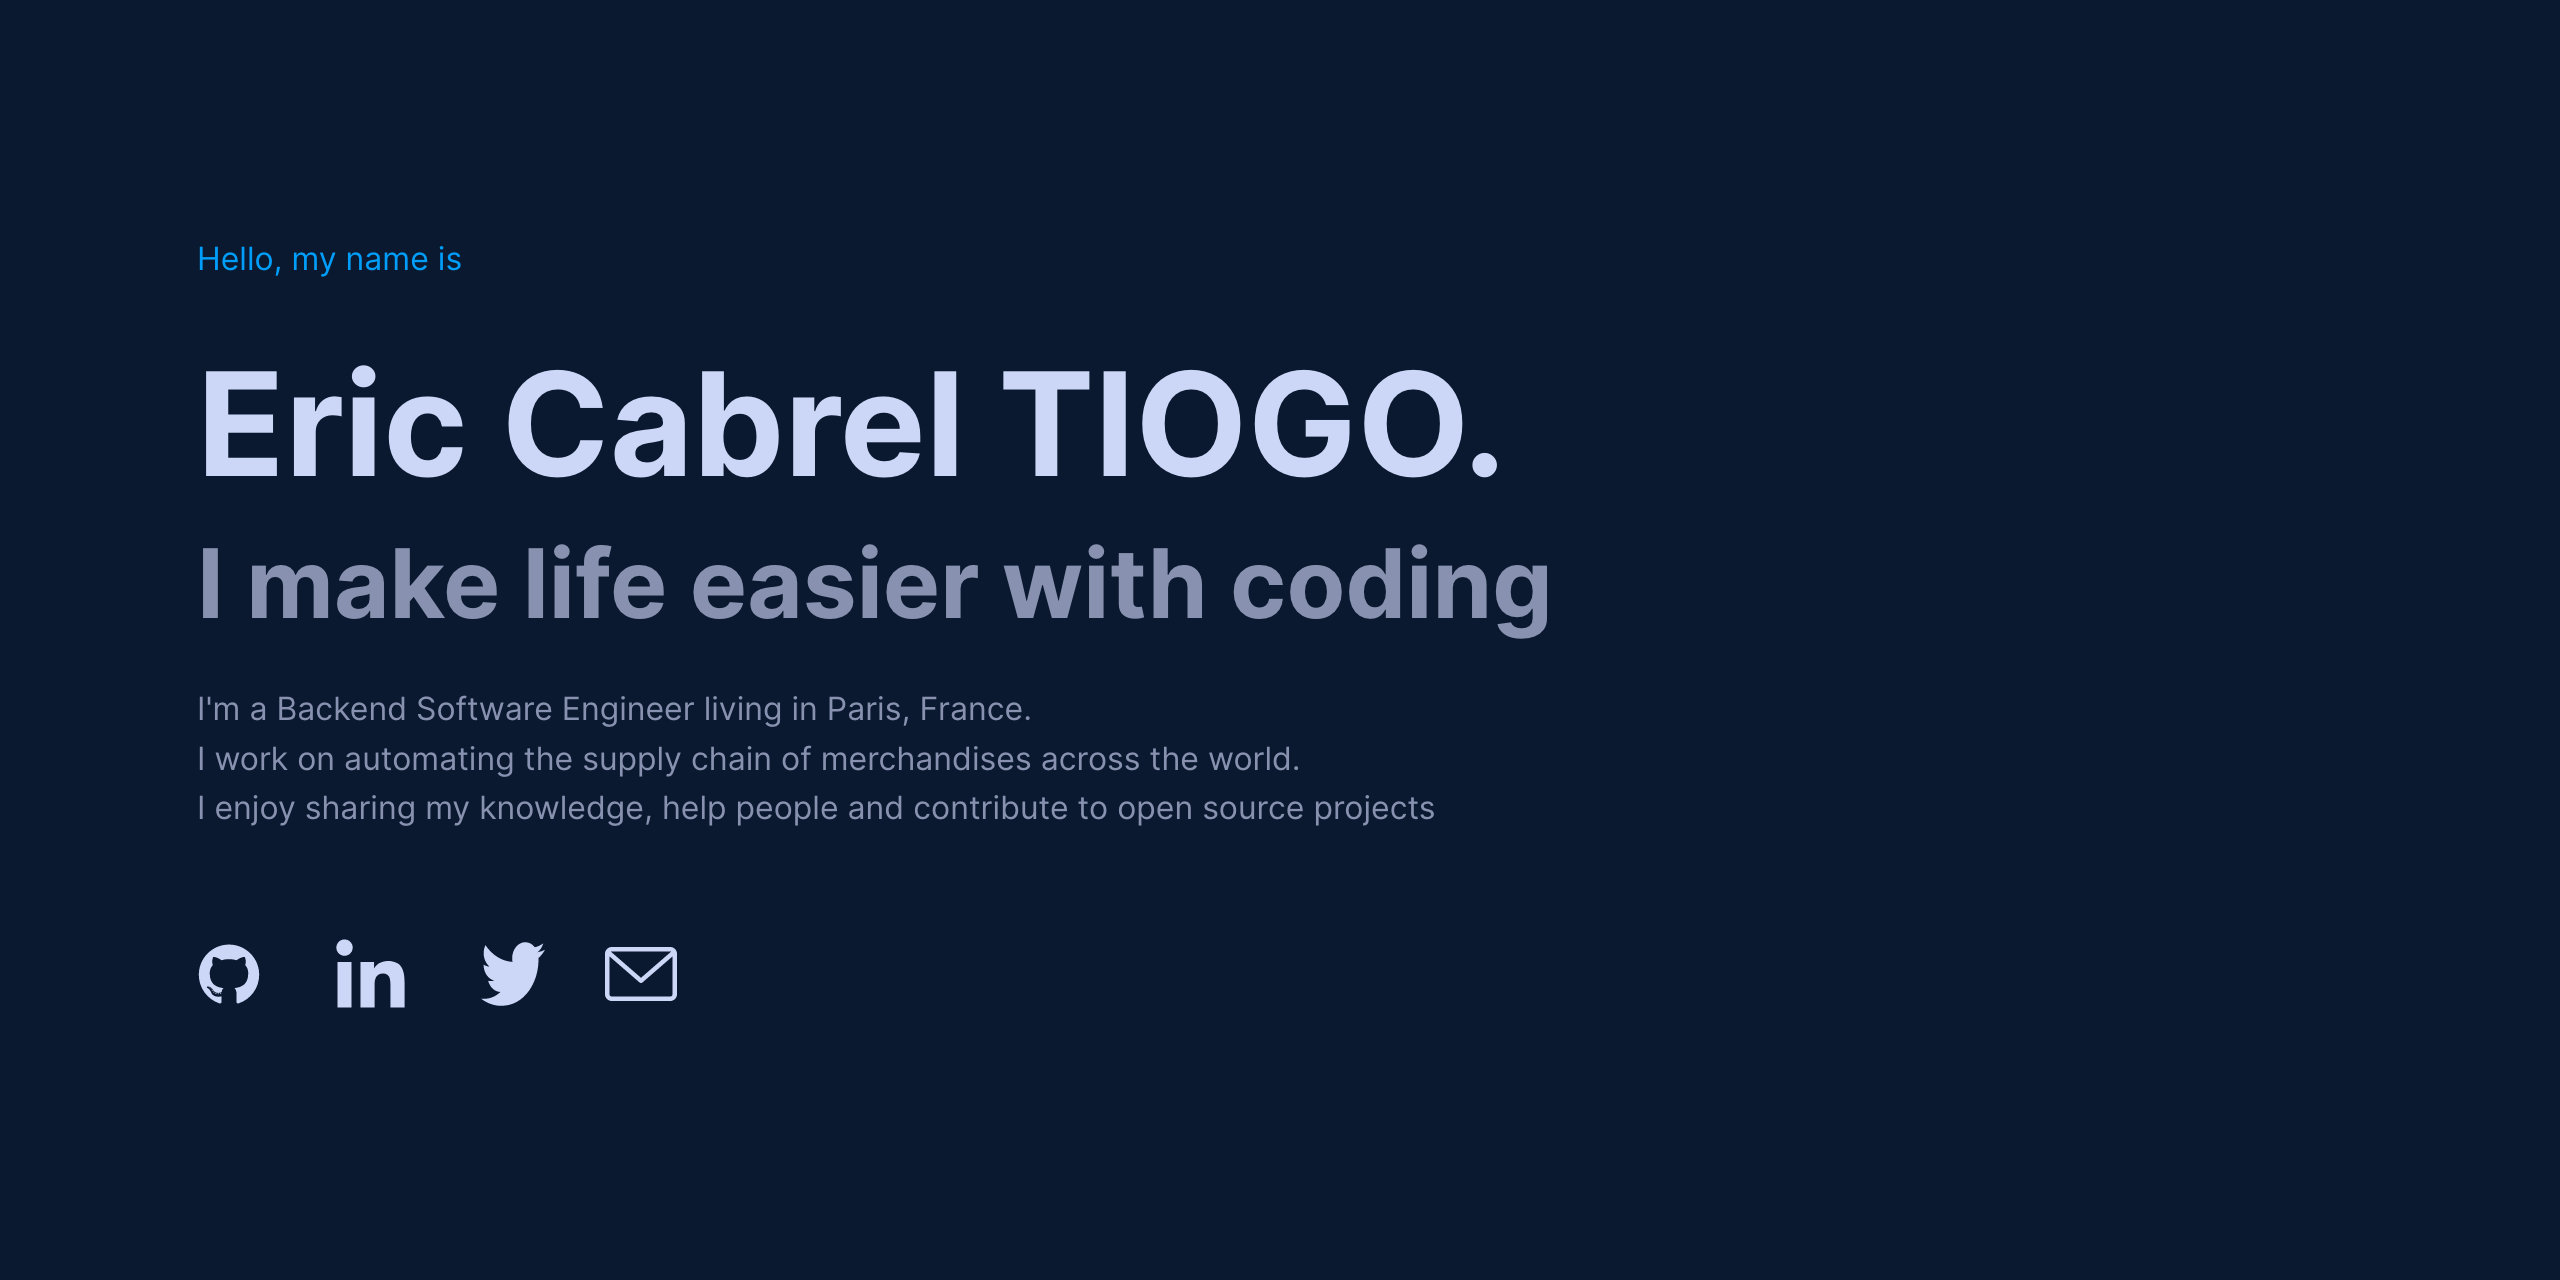
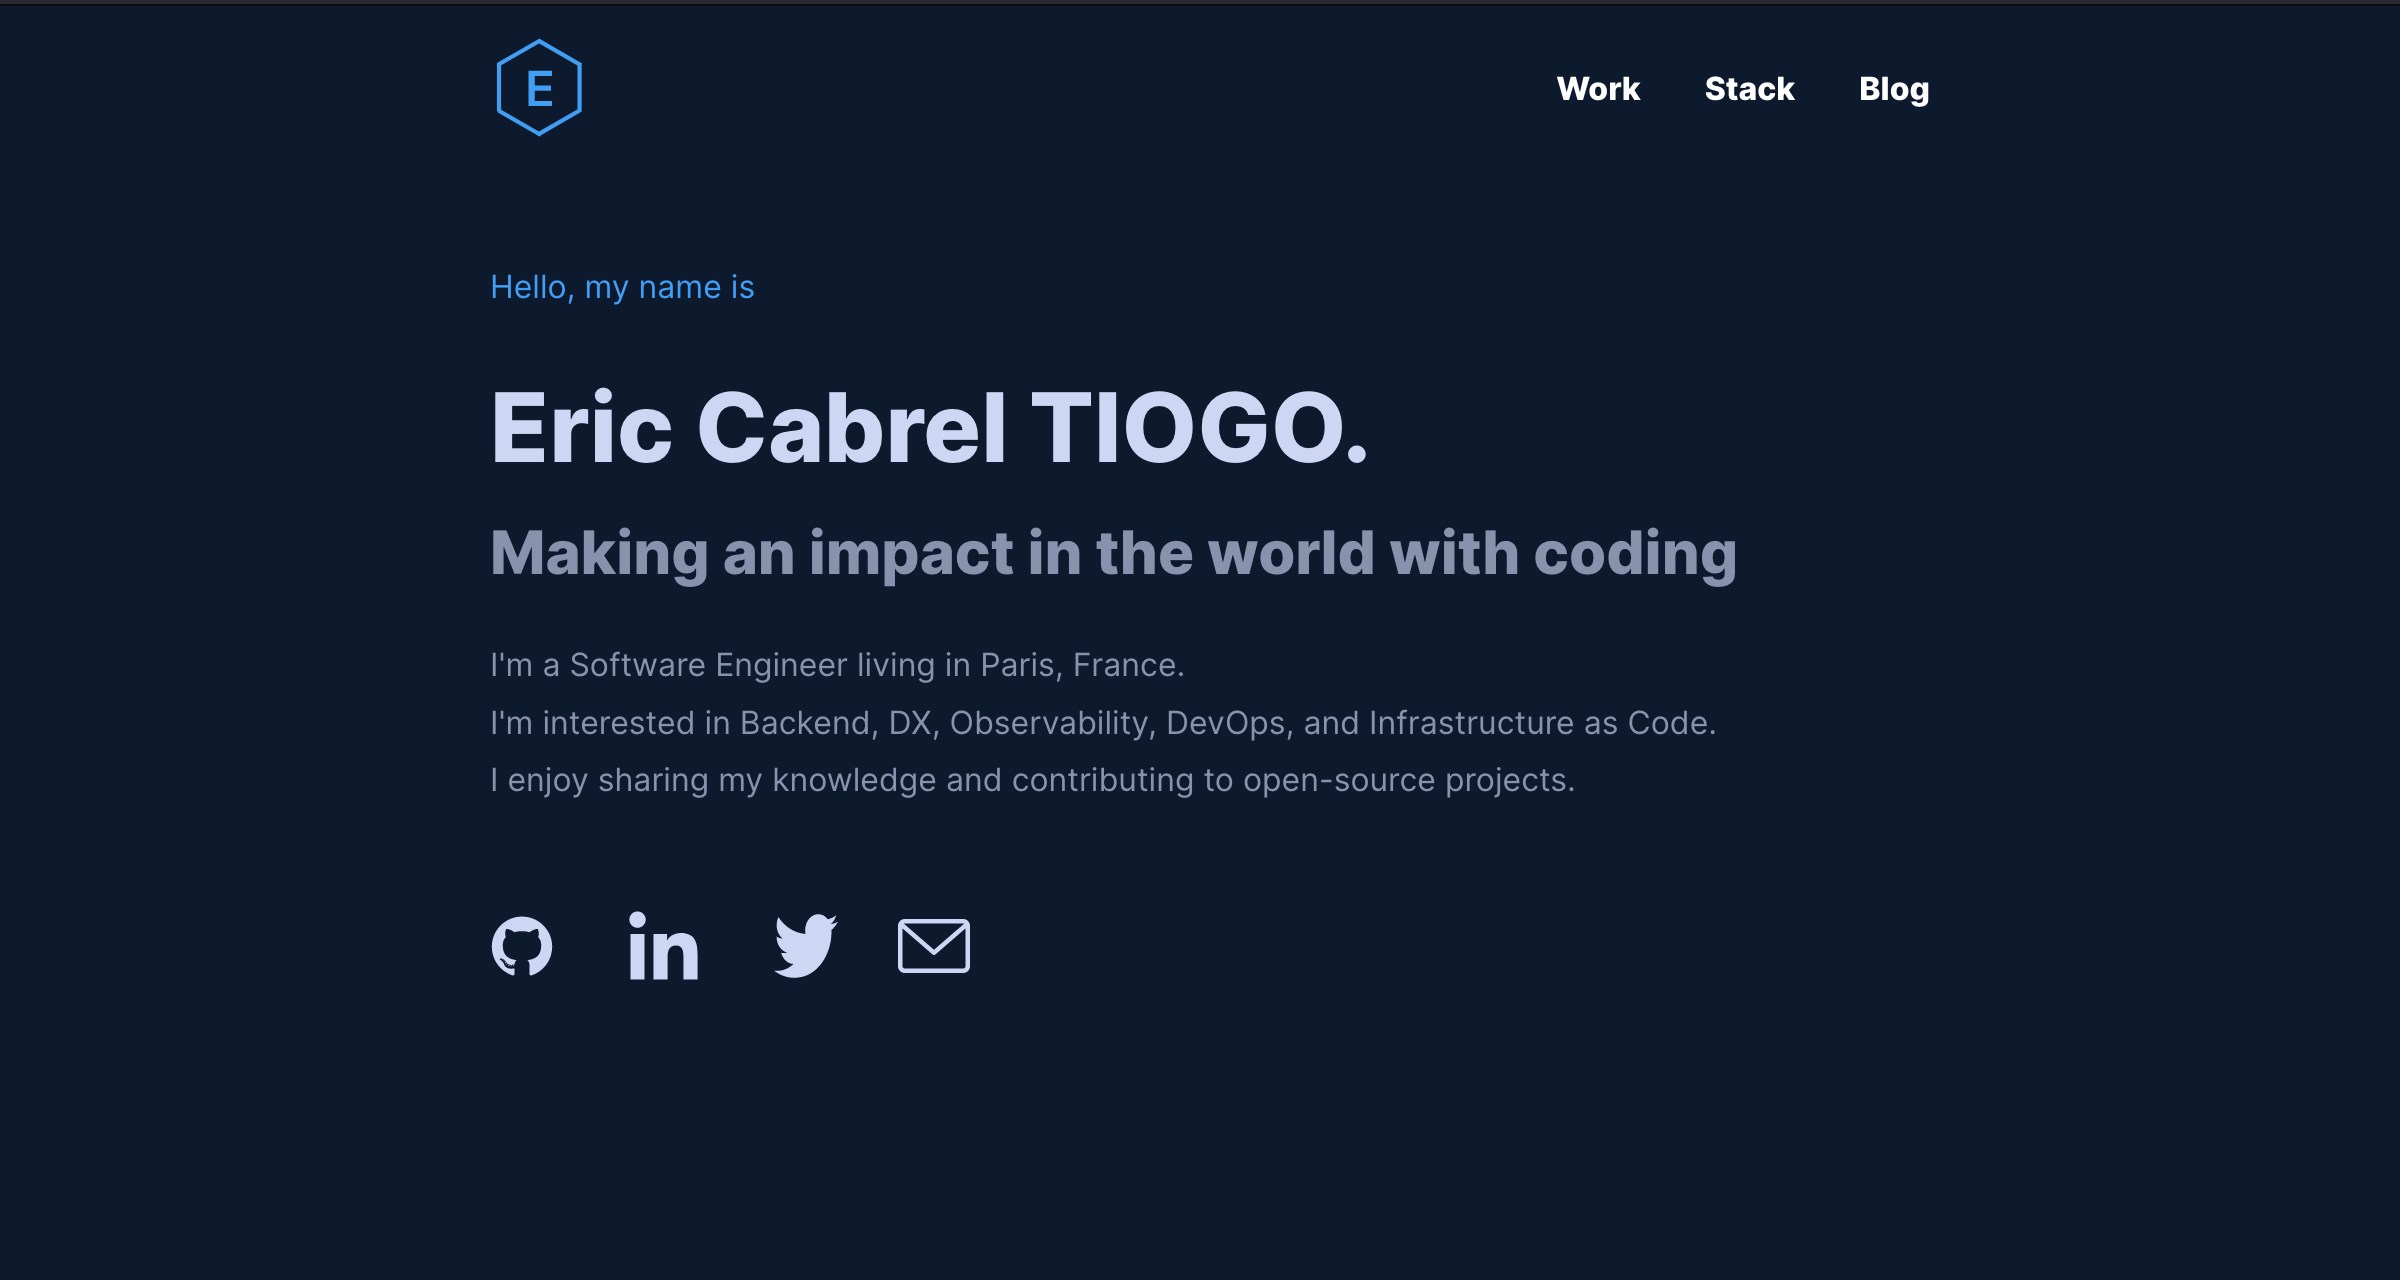
feat: review responsive design + text typos

diff --git a/components/layout.tsx b/components/layout.tsx
@@ -11,22 +11,24 @@ type Props = {
 };
 
 const url = process.env.NEXT_PUBLIC_WEB_URL;
-const description =
-  "I'm interested in everything related to the backend, Observability, DevOps and Infrastructure as Code. I enjoy sharing my knowledge, help people and contribute to open source projects";
+const description = [
+  "I'm interested in Backend, DX, Observability, DevOps, and Infrastructure as Code.",
+  'I enjoy sharing my knowledge and contributing to open-source projects.',
+];
 
 const Layout = ({ children, title = 'Eric Cabrel TIOGO' }: Props) => (
   <div>
     <NextSeo
       canonical={url}
-      description={description}
+      description={description.join(' ')}
       openGraph={{
-        description,
+        description: description.join(' '),
         images: [
           {
             alt: 'Og Image Alt',
             height: 640,
             url: `${url}/og.png`,
-            width: 1280,
+            width: 1200,
           },
         ],
         site_name: 'Eric Cabrel TIOGO',
@@ -50,7 +52,7 @@ const Layout = ({ children, title = 'Eric Cabrel TIOGO' }: Props) => (
     <div id="root">
       <div className="max-w-screen-md md:mx-auto">
         <Header />
-        <div className="mt-6 mx-auto">{children}</div>
+        <div className="mt-6 mx-auto px-4">{children}</div>
       </div>
       <Footer />
     </div>

diff --git a/components/sections/intro.tsx b/components/sections/intro.tsx
@@ -8,13 +8,13 @@ const Intro = () => {
       <div>
         <div className="text-color-primary">Hello, my name is</div>
         <div className="intro-name mt-9 text-color-white font-bold text-5xl">Eric Cabrel TIOGO.</div>
-        <div className="intro-quote mt-5 text-3xl font-bold">Making impact in the world with coding</div>
+        <div className="intro-quote mt-5 text-3xl font-bold">Making an impact in the world with coding</div>
         <div className="mt-7">
           <p className="intro-text mb-2">I'm a Software Engineer living in Paris, France.</p>
           <p className="intro-text mb-2">
-            I'm interested in Backend, DX, Observability, DevOps and Infrastructure as Code.
+            I'm interested in Backend, DX, Observability, DevOps, and Infrastructure as Code.
           </p>
-          <p>I enjoy sharing my knowledge and contributing to open source projects</p>
+          <p>I enjoy sharing my knowledge and contributing to open-source projects.</p>
         </div>
         <div className="intro-social mt-12 flex w-60 justify-between items-center">
           {socialLinks.map((link) => {

diff --git a/data/projects.ts b/data/projects.ts
@@ -16,17 +16,17 @@ export const projects: ProjectData[] = [
     title: 'Sharingan',
   },
   {
+    demoLink: 'https://prolanghistory.com',
+    description: 'Get information about programming languages through REST API or GraphQL',
+    githubLink: 'https://github.com/osscameroon/prolang-api',
+    stacks: ['Node.js', 'GraphQL', 'MongoDB', 'TypeScript', 'Docker'],
+    title: 'Prolang',
+  },
+  {
     demoLink: 'https://www.youtube.com/watch?v=QcHWxv8MELw',
-    description: 'Authenticate a user with his fingerprint stored in the smart card',
+    description: 'Authenticate a user with his fingerprint stored in a smart card',
     githubLink: 'https://github.com/tericcabrel/smartcard-with-fingerprint-auth',
     stacks: ['Javacard', 'Spring Boot', 'MySQL', 'RabbitMQ', 'Socket.io'],
     title: 'Osiris',
-  },
-  {
-    demoLink: null,
-    description: 'A REST API for managing users, roles, permissions and authentication.',
-    githubLink: 'https://github.com/tericcabrel/spring-user-management',
-    stacks: ['Java', 'Spring Boot', 'MongoDB', 'Redis', 'Docker'],
-    title: 'User management API',
   },
 ];

diff --git a/styles/index.css b/styles/index.css
@@ -37,6 +37,11 @@
 .bg-slate {
     background-color: var(--lightest-slate);
 }
+
+.header {
+    padding-left: 1rem;
+    padding-right: 1rem;
+}
 .project {
     background-color: #0C2242;
     transition: var(--transition);
@@ -54,12 +59,6 @@
         padding-left: 0;
         padding-right: 0;
     }
-    .section-intro {
-        height: 90vh;
-    }
-    .section-intro-content {
-        padding-top: 25px;
-    }
     .intro-name {
         font-size: 1.9rem;
     }
@@ -72,18 +71,8 @@
     .intro-social {
         margin-top: 2rem;
     }
-    .experience {
-        margin: 0;
-    }
-    .education {
-        margin: 0 0 4rem 0;
-    }
     .section-title {
         font-size: 1.75rem;
-    }
-    .header {
-        padding-left: 1rem;
-        padding-right: 1rem;
     }
     .header .nav-menu {
         position: fixed;

diff --git a/components/header.tsx b/components/header.tsx
@@ -22,8 +22,9 @@ const Header = () => {
 
   useOnClickOutside(wrapperRef, () => setIsOpen(false));
 
+  // @ts-ignore
   return (
-    <header className="w-full flex py-4 justify-between items-center h-auto">
+    <header className="header w-full flex py-4 justify-between items-center h-auto">
       <div>
         <a href="#" onClick={() => scrollToTop()}>
           <Logo />
@@ -44,6 +45,7 @@ const Header = () => {
         <ul ref={wrapperRef}>
           {links.map((link) => (
             <li className="inline-block font-bold px-4" key={link.name}>
+              {/* @ts-ignore */}
               <Link
                 activeClass="active"
                 className="cursor-pointer"

diff --git a/components/common/section.tsx b/components/common/section.tsx
@@ -8,7 +8,7 @@ type SectionProps = {
 
 const Section = ({ children, id, showLine = true, title }: PropsWithChildren<SectionProps>) => {
   return (
-    <section id={id} className="section">
+    <section className="section" id={id}>
       <div className="flex items-center mb-5">
         <div className="section-title text-color-white font-bold pr-6 text-4xl flex-initial">{title}</div>
         {showLine && <div className="border flex-auto mt-3" />}

diff --git a/README.md b/README.md
@@ -1,5 +1,5 @@
 # My Personal Website
-My personal website inspired from [https://brittanychiang.com](https://brittanychiang.com)
+My personal website
 
 ![demo](https://raw.githubusercontent.com/tericcabrel/me/main/public/og.png)
 
